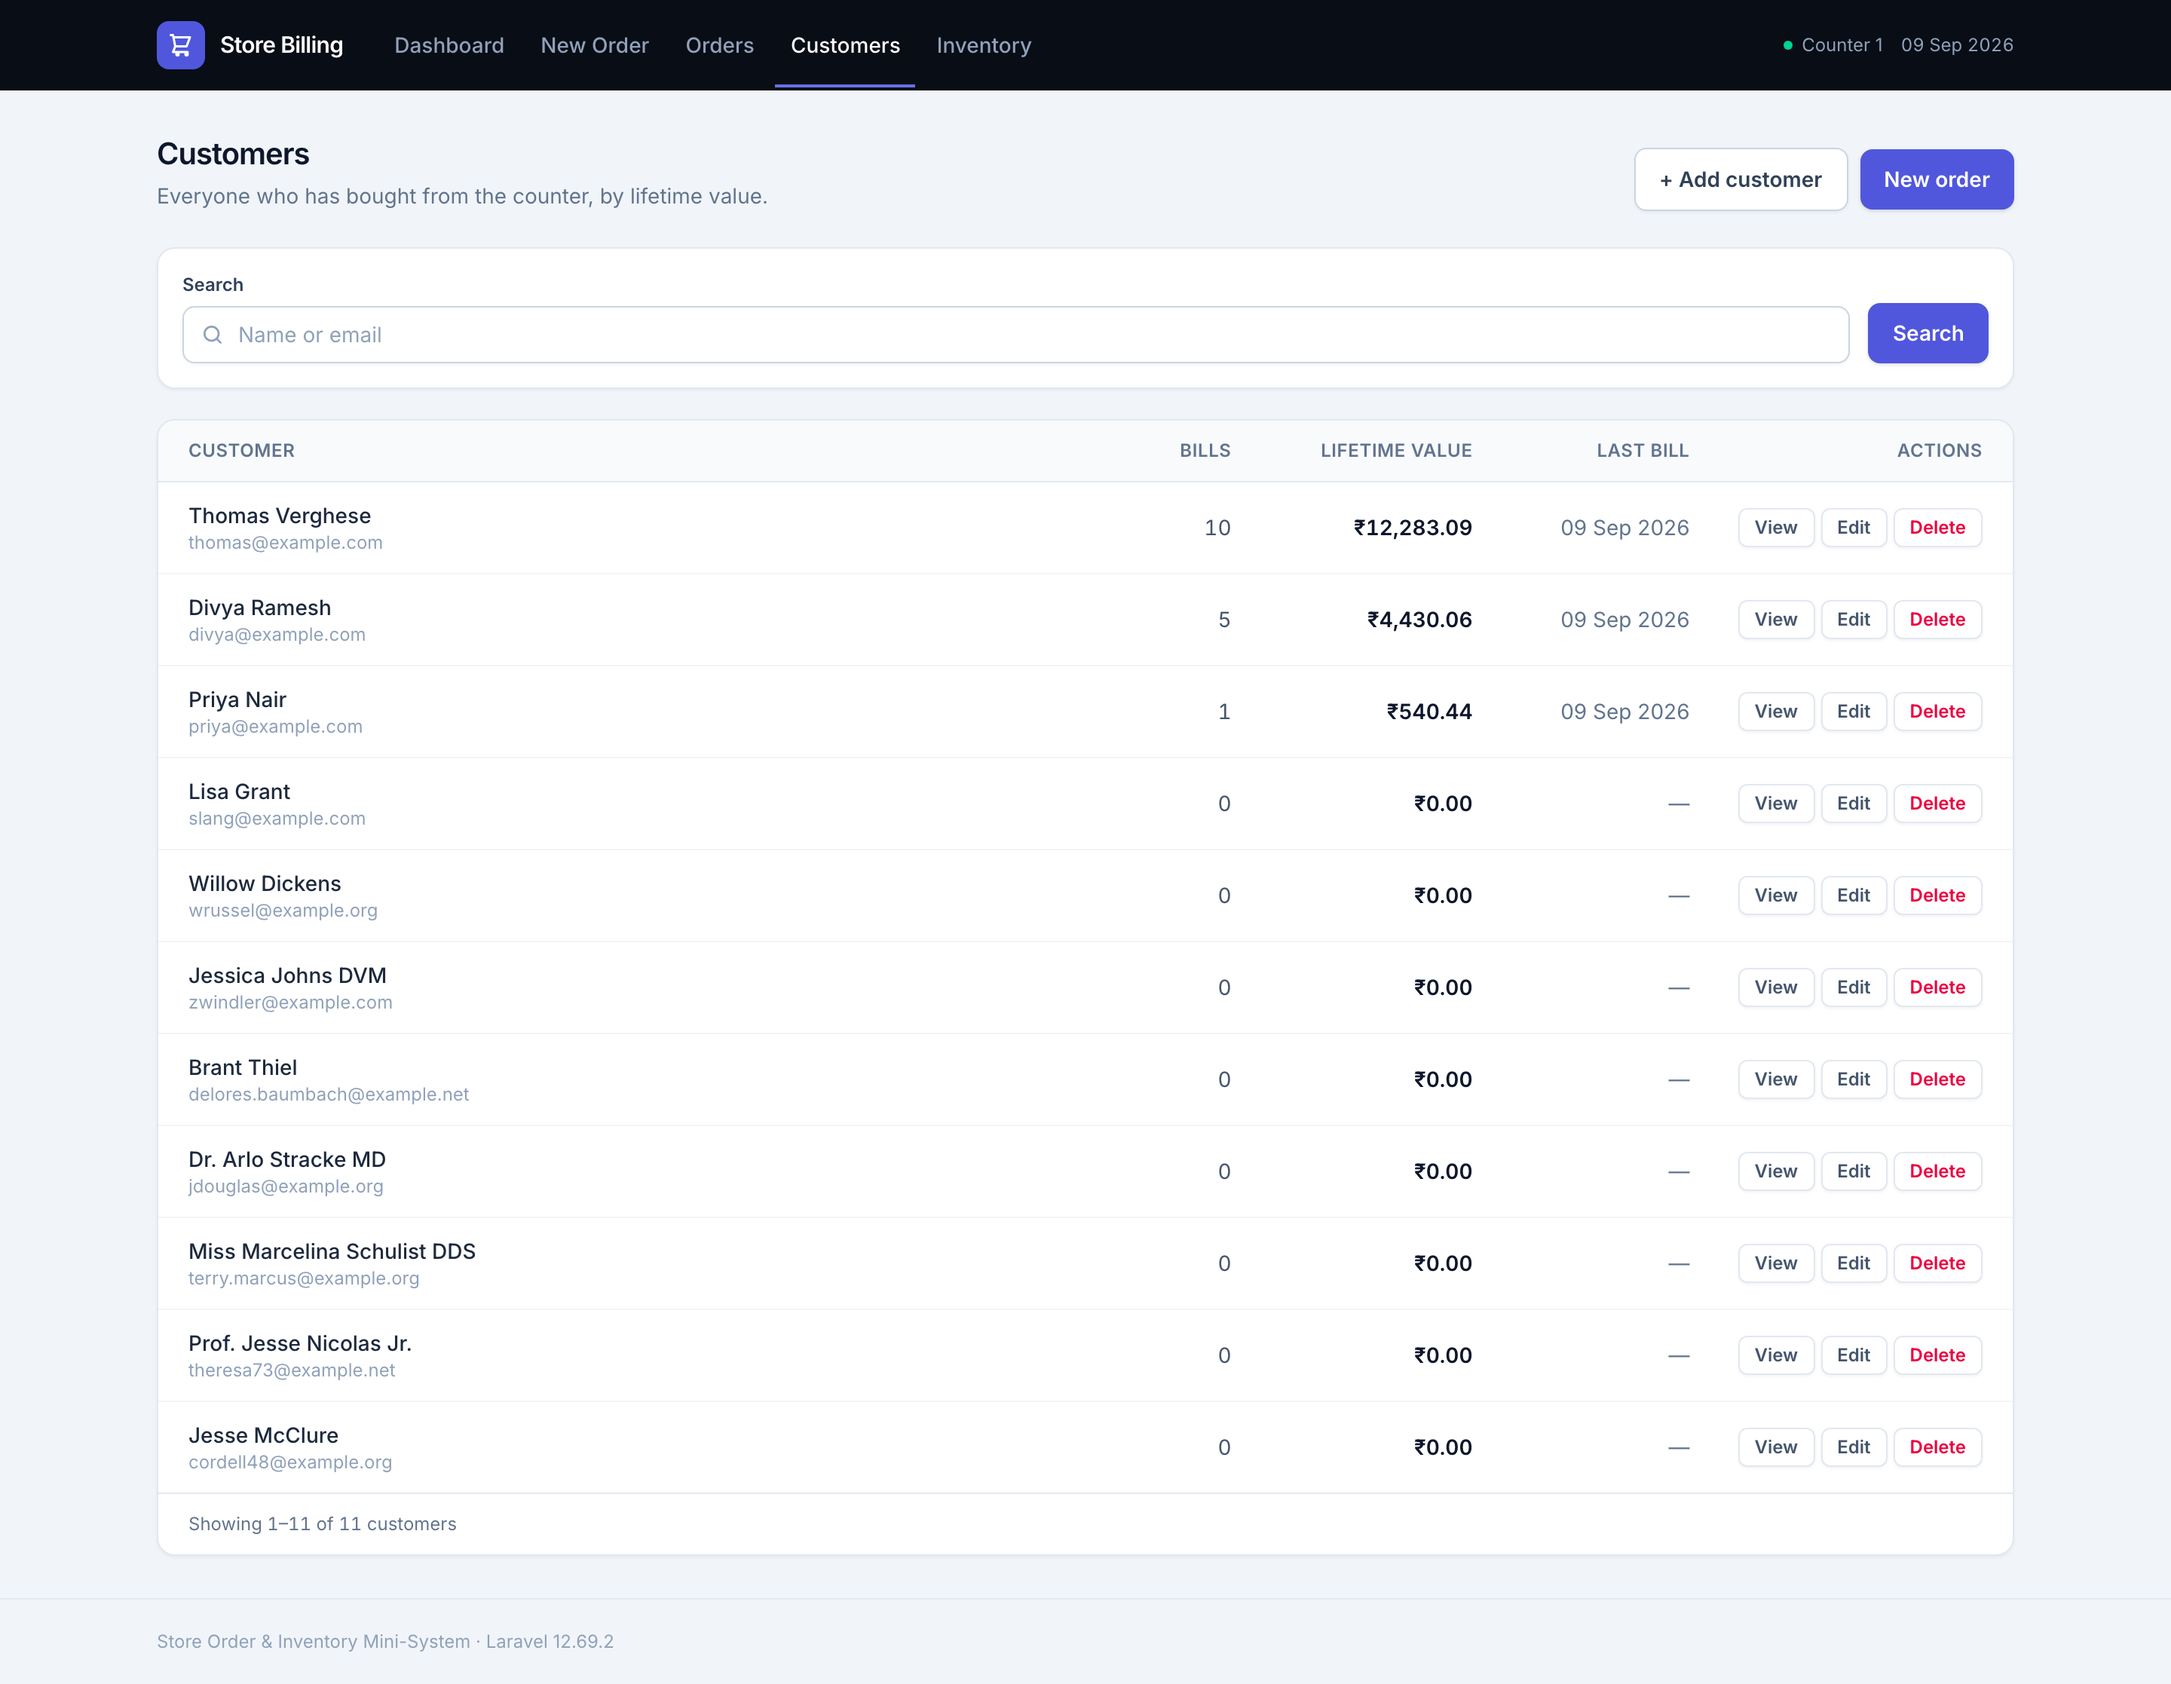
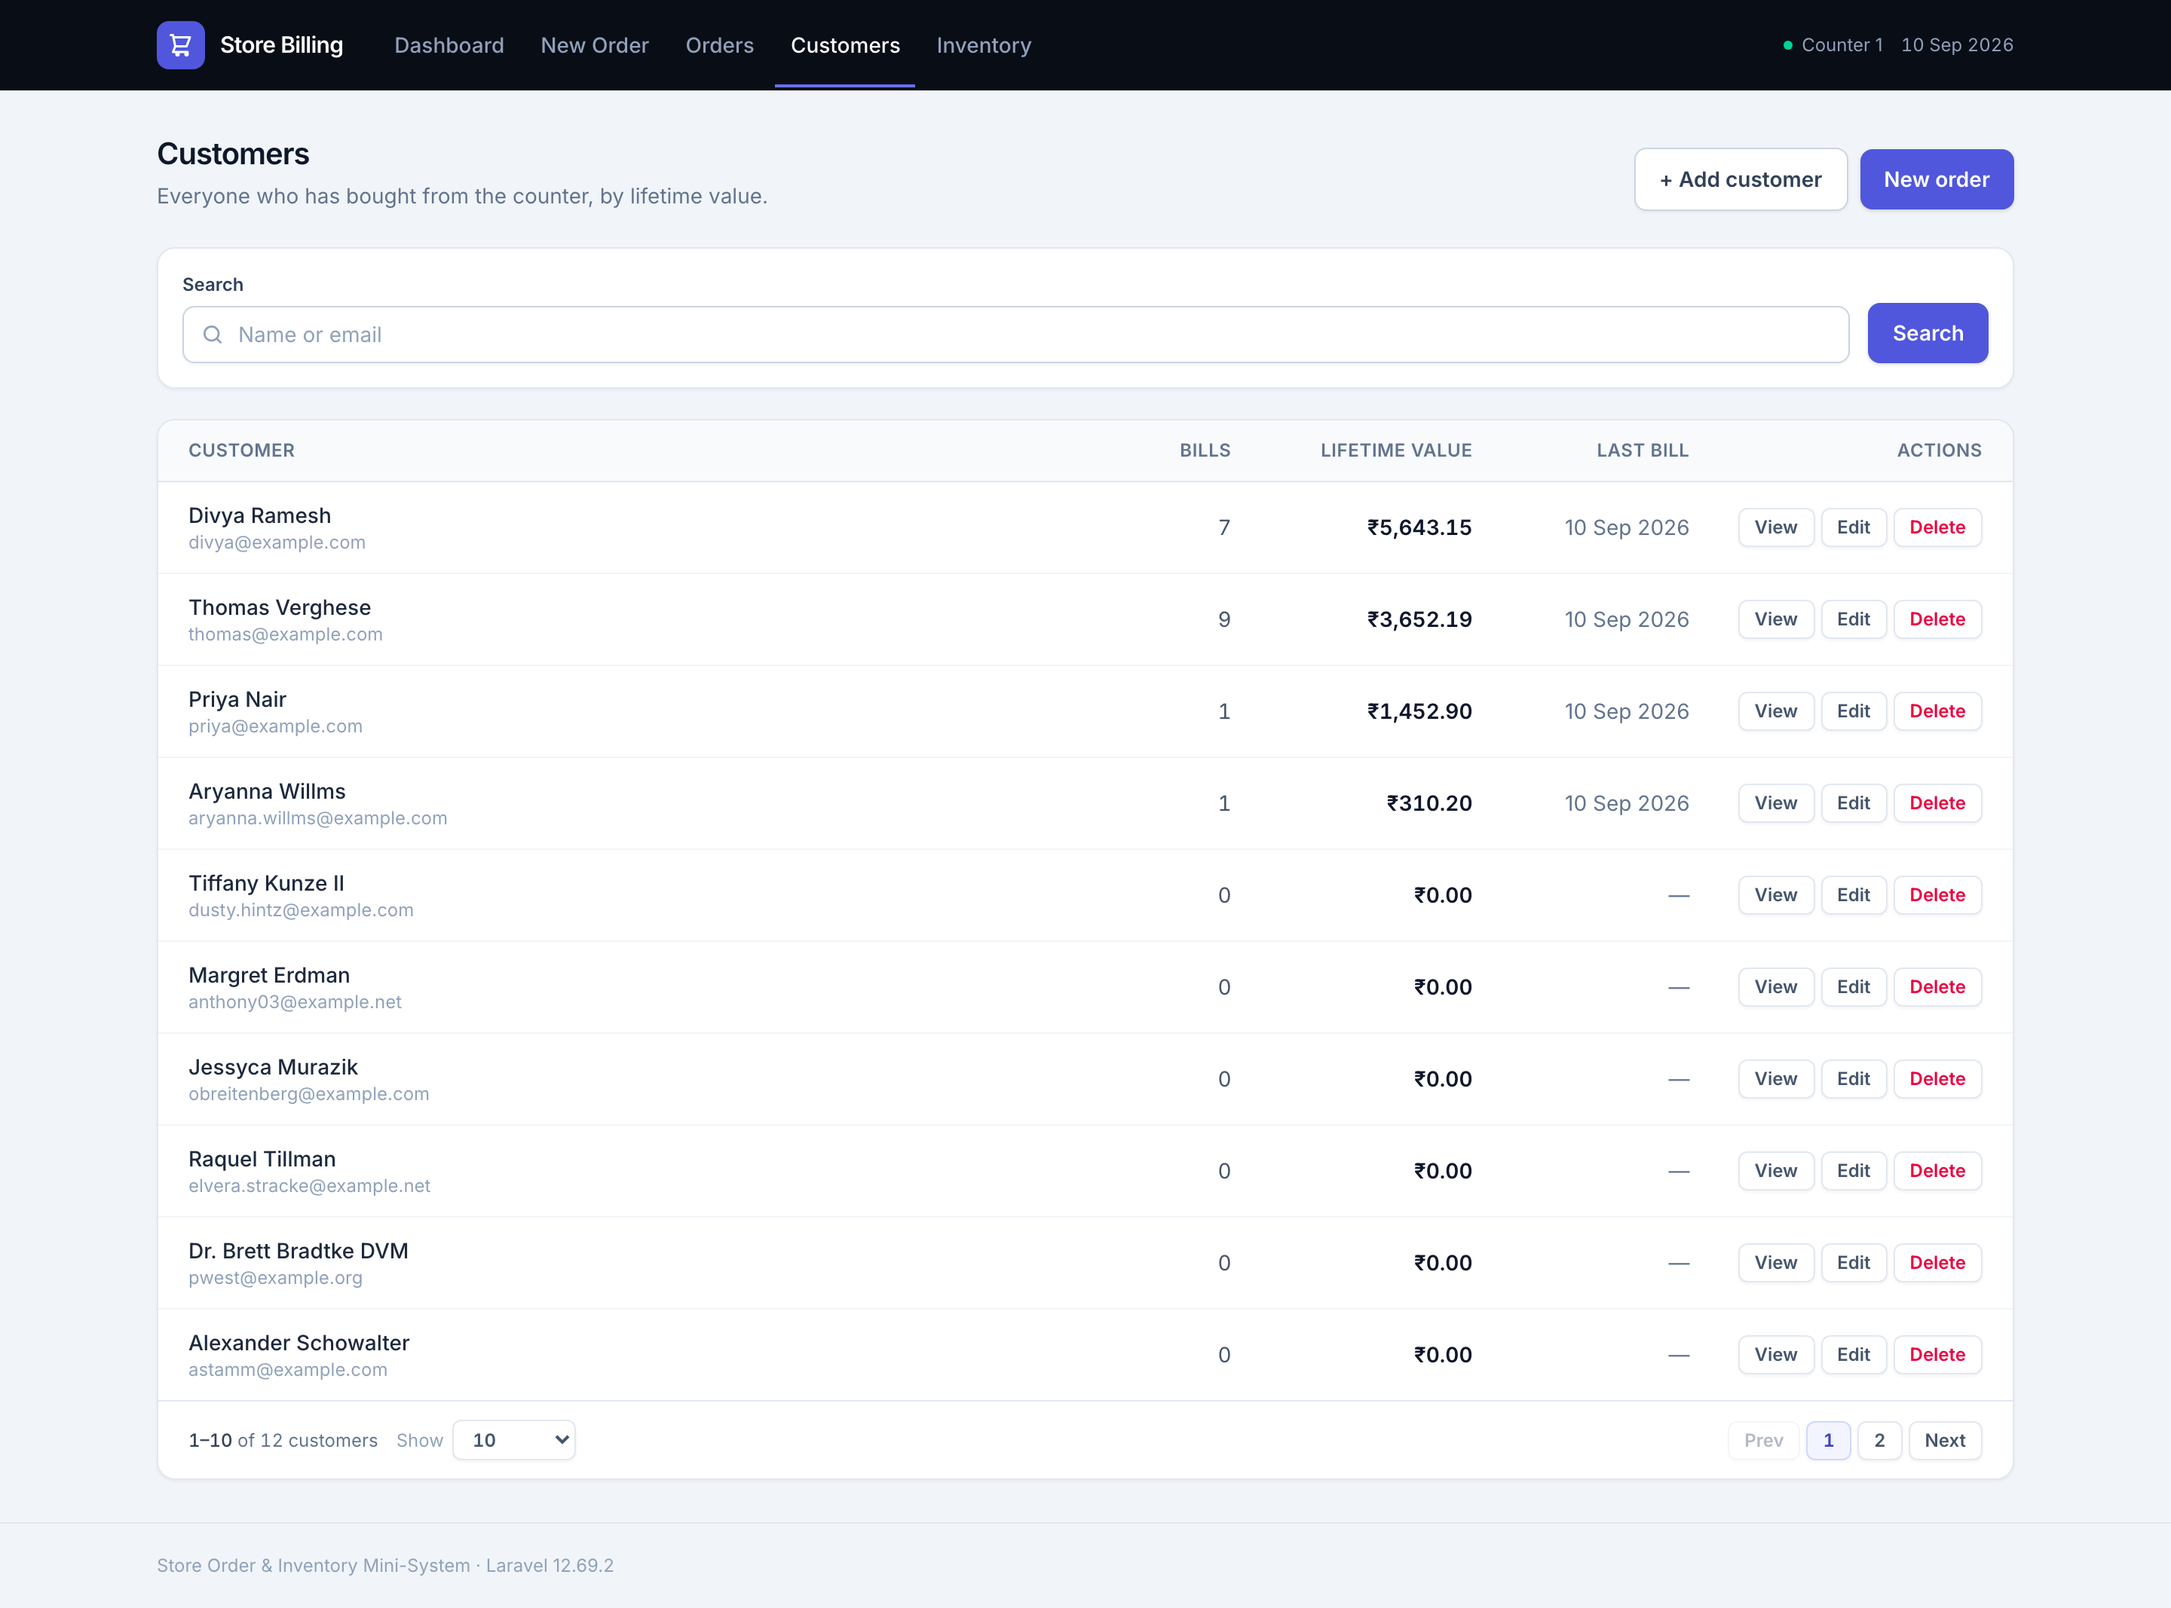
Update the screenshots and documentation

diff --git a/README.md b/README.md
@@ -7,7 +7,7 @@ Built as a take-home assignment for Mallow Technologies. The JSON API is the par
 specifies; the screens on top of it use that same API.
 
 **Laravel 12** · **PHP 8.4** · **MySQL 8+ / MariaDB** (PostgreSQL works unchanged) ·
-**Blade + Alpine.js + Tailwind 4** · **67 tests**
+**Blade + Alpine.js + Tailwind 4** · **84 tests**
 
 ![Dashboard](docs/screenshots/01-dashboard.png)
 
@@ -86,14 +86,21 @@ Confirmation emails do not go over SMTP. `MAIL_MAILER=log` writes each rendered 
 
 **Inventory**
 
-- Catalogue with stock levels, search and a low-stock filter
+- Add, edit and delete a product from the catalogue
+- Stock levels with search and a low-stock filter
 - **Restock** any product, recorded as its own movement
 - Per-product **stock ledger**: every change to stock with the bill that caused it
 
 **Dashboard**
 
-- Today's revenue, units and tax; a fourteen-day revenue trend
-- Best sellers, recent bills, and what needs reordering
+- Revenue, bills, average bill and tax for today, each against yesterday
+- Fourteen-day revenue trend and a busiest-hours breakdown over the last month
+- Retail value of the shelves, split into healthy, low and out of stock
+- Best sellers, top customers, recent bills, and a live feed of stock movements
+
+**Everywhere**
+
+- Every listing paginates, with a page-size selector that keeps the filters you set
 
 **Customers**
 
@@ -180,18 +187,32 @@ Add, edit and delete from the list.
 
 ### Inventory
 
+The catalogue is managed here: add a product, edit it, restock it, or take it off the shelf.
+
 ![Inventory](docs/screenshots/16-inventory.png)
+
+![Product form](docs/screenshots/17-product-form.png)
+
+Stock is deliberately **not** editable on that form. It moves when a bill is raised, edited or
+deleted, and when a product is restocked — every change writes a ledger row, and letting someone
+type over the number would put the shelf and the ledger out of step with nothing explaining it.
+
+![Restock](docs/screenshots/18-restock.png)
 
 Every product carries its own ledger. Sales, edits, deletions and restocks all land here with the
 balance they left behind.
 
-![Stock ledger](docs/screenshots/17-stock-ledger.png)
-
-![Restock](docs/screenshots/18-restock.png)
+![Stock ledger](docs/screenshots/19-stock-ledger.png)
 
 ### On a phone
 
-<img src="docs/screenshots/19-mobile-pos.png" width="320" alt="The counter screen on a phone">
+Every screen works down to 390px. Wide tables scroll inside their own container so the page itself
+never scrolls sideways.
+
+<p>
+<img src="docs/screenshots/20-mobile-dashboard.png" width="300" alt="The dashboard on a phone">
+<img src="docs/screenshots/21-mobile-pos.png" width="300" alt="The counter screen on a phone">
+</p>
 
 ---
 
@@ -277,15 +298,25 @@ curl -X DELETE http://localhost:8000/api/orders/13 -H 'Accept: application/json'
 `204`. Every unit goes back on the shelf and the bill is soft deleted. Deleting a deleted bill
 returns `409` rather than crediting the stock twice.
 
-### Customers
+### Customers and products
 
 ```
-GET    /api/customers            list, with ?search=
-POST   /api/customers            create
-PUT    /api/customers/{customer} update
-DELETE /api/customers/{customer} delete
+GET    /api/customers                    list, with ?search=
+POST   /api/customers                    create
+PUT    /api/customers/{customer}         update
+DELETE /api/customers/{customer}         delete
 GET    /api/customers/lookup?email=
+
+GET    /api/products                     list, with ?search=
+POST   /api/products                     create
+PUT    /api/products/{product}           update
+DELETE /api/products/{product}           delete
+POST   /api/products/{product}/restock   add stock
 ```
+
+`stock_on_hand` is accepted when a product is **created** — that is its opening balance — and
+rejected on update. Stock afterwards only moves through a bill or a restock, so the ledger always
+explains the number on the shelf.
 
 ```bash
 curl -X POST http://localhost:8000/api/customers \
@@ -324,12 +355,10 @@ curl -X POST http://localhost:8000/api/products/2/restock \
   -d '{ "quantity": 50, "note": "Supplier invoice 4471" }'
 ```
 
-### Supporting endpoints
+### Pagination
 
-`GET /api/products` backs the picker on the counter screen and accepts `?search=`.
-
-`GET /api/customers/lookup?email=` returns a customer and their bill count, or `404`. The counter
-screen uses it to fill in the name of a returning customer; the `404` is the signal to ask for one.
+Every listing takes `?page=` and `?per_page=` (10, 25, 50 or 100; anything else falls back to 10).
+Filters are carried across pages, so a page-two link keeps the search you typed.
 
 ---
 
@@ -462,7 +491,7 @@ php artisan test
 ```
 
 ```
-Tests:  67 passed (286 assertions)
+Tests:  84 passed (373 assertions)
 ```
 
 The suite runs on in-memory SQLite and takes a few seconds. Beyond the happy path it covers the
@@ -497,11 +526,23 @@ cases I would expect to break in production.
 - a deleted customer disappears from the list and from the counter lookup, while their bills stay
   readable with their name on them
 
+**Products**
+- created, renamed, repriced and deleted through the API, with codes upper-cased and kept unique
+- **repricing a product does not touch bills already raised** — the order line keeps the price it
+  was sold at
+- an update cannot set stock directly; that is what a restock or a bill is for
+- a deleted product leaves the catalogue and cannot be sold again, while the bills carrying it stay
+  readable
+
+**Pagination**
+- every listing paginates, on its own page size, with filters carried across pages
+- an unsupported `per_page` falls back to the default rather than erroring
+
 **Inventory and reads**
 - the low-stock threshold resolving through all three of its levels
 - a restock lifts a product back out of the low-stock list, and its balance is recorded correctly
 - the customer lookup returns a clean `404` for an unknown email
-- the dashboard leaves deleted bills out of revenue
+- the dashboard reports today against yesterday, and leaves deleted bills out of revenue
 - each screen is asserted on the data it puts in front of the user, not just a `200`
 
 **Concurrency**
@@ -522,7 +563,7 @@ cases I would expect to break in production.
 | 3. Customer order history by email | [`OrderController@index`](app/Http/Controllers/Api/OrderController.php) |
 | 4. Low-stock endpoint, configurable threshold | [`ProductController@lowStock`](app/Http/Controllers/Api/ProductController.php), [`config/inventory.php`](config/inventory.php) |
 | 5. Queued job on order creation | [`SendOrderConfirmation`](app/Jobs/SendOrderConfirmation.php) |
-| 6. Feature and unit tests with edge cases | [`tests`](tests) — 67 tests |
+| 6. Feature and unit tests with edge cases | [`tests`](tests) — 84 tests |
 | 7. Safe under concurrent requests | [Concurrency](#no-overselling-under-concurrent-requests), [`ConcurrentOrderTest`](tests/Feature/ConcurrentOrderTest.php) |
 | Eloquent relationships, migrations, form-request validation | [`app/Models`](app/Models), [`app/Http/Requests`](app/Http/Requests) |
 | Thin controllers, logic in services | [`app/Services`](app/Services) — controllers validate, delegate, return a resource |
@@ -594,6 +635,17 @@ simulate sending a confirmation, and explicitly allows a log entry. Pulling in a
 mailer that never reaches SMTP seemed like weight without value, so the job renders a Markdown
 mailable and the bill screen is print-styled instead.
 
+**Stock is never typed in, only moved.** The product form takes an opening balance when a product
+is created and refuses `stock_on_hand` on update. Every later change goes through a bill or a
+restock so there is always a ledger row explaining the number. A form that let someone overwrite it
+would silently break the one guarantee the ledger exists to give.
+
+**The dashboard's date grouping is written per driver.** `DATE()` and `HOUR()` are not portable —
+`HOUR()` does not exist in SQLite or Postgres at all — so
+[`DashboardMetrics`](app/Services/DashboardMetrics.php) picks the expression for the connection in
+use. Grouping in PHP instead would have been simpler and would have meant pulling every order in
+the window into memory to draw one chart.
+
 **There is no authentication, so there are no `users` or `sessions` tables.** The default Laravel
 scaffolding for both was removed rather than left sitting unused in a schema the brief asked to be
 normalised; sessions use the file driver. Adding auth later means adding those back, which is a
@@ -630,18 +682,20 @@ app/
   Services/OrderTotals.php            Line pricing and tax rounding
   Services/InventoryService.php       Restocking
   Services/DashboardMetrics.php       Dashboard queries, kept out of the controller
+  Support/PerPage.php                 The page sizes the listings will accept
   Support/Money.php                   Integer-paise arithmetic
   Support/CashDrawer.php              Change split into notes and coins
 resources/js/
   money.js                            Mirrors Money and CashDrawer so totals stay live on screen
   components/orderForm.js             Counter screen: customer, product cards, totals, validation
   components/customerForm.js          Customer add, edit and delete
+  components/productForm.js           Product add, edit, restock and delete
   components/deleteOrder.js           Delete confirmation
   components/restockProduct.js        Restock dialog
   stores/toasts.js                    Shared success and failure notifications
 resources/views/
   components/                         Blade UI kit: field, stat, stock-badge, empty-state,
-                                      modal, pagination
+                                      modal, pagination, trend
   layouts/app.blade.php               Shell, navigation, toast outlet
   dashboard/ billing/ orders/ customers/ products/
 tests/Feature/ConcurrentOrderTest.php Six real processes against one product

diff --git a/prompts/README.md b/prompts/README.md
@@ -108,12 +108,27 @@ Asked for the screens a counter actually needs beyond the wireframe: a dashboard
 and a per-product stock ledger. The ledger was the point of `stock_movements` all along — this is
 where the table stops being schema and starts being a feature.
 
-## 11. Comments
+## 11. Products, and a more elaborate dashboard
+
+Asked for product CRUD in the UI and for the dashboard to carry more. The dashboard grew a
+day-against-yesterday comparison, a busiest-hours chart, the retail value of the shelves split by
+health, top customers, and a live stock-movement feed.
+
+Two things I pushed back on in the generated shape:
+
+- The product form originally let stock be typed in on edit. That breaks the one guarantee the
+  ledger gives — that every number on the shelf has a movement explaining it. Stock is now an
+  opening balance at creation and read-only afterwards.
+- The dashboard queries came back using `DATE()` and `HOUR()`. Neither is portable, and `HOUR()`
+  does not exist in SQLite at all, so the whole dashboard 500'd under the test suite. The
+  expressions are chosen per driver now.
+
+## 12. Comments
 
 Asked for the code to be stripped of comments and the reasoning moved into the README, next to the
 decision it explains. Docblocks were kept only where they carry types.
 
-## 12. Bugs the assistant introduced, and how they were caught
+## 13. Bugs the assistant introduced, and how they were caught
 
 Worth recording, since the brief asks how well the tooling was used rather than whether it was:
 
@@ -130,5 +145,15 @@ Worth recording, since the brief asks how well the tooling was used rather than 
 - Blade's `@json` directive cannot parse a multi-line array literal written inline in an attribute.
   It broke the page silently at compile time, twice, in two different files. The fix both times was
   to build the array in PHP first and pass the variable.
+
+- The dashboard charts rendered as empty boxes twice: once because a percentage height sat inside a
+  container with no height, and once because `bg-gradient-to-t` is Tailwind v3 syntax and v4 wants
+  `bg-linear-to-t`. Neither failed a test; both were obvious in a screenshot.
+- Adding soft deletes to products surfaced a real hole: the order validation used
+  `exists:products,id`, which happily matches a soft-deleted row, so a discontinued product could
+  still be sold. Caught by writing the test for it.
+- The `orders:place` command bypassed the form request, so billing an unknown email with no name
+  died on a raw SQL error instead of a validation message. The rule belonged in the service, where
+  both entry points reach it — the same argument as the stock check.
 
 The general lesson: the tests catch logic, the browser catches everything else. Both were needed.
